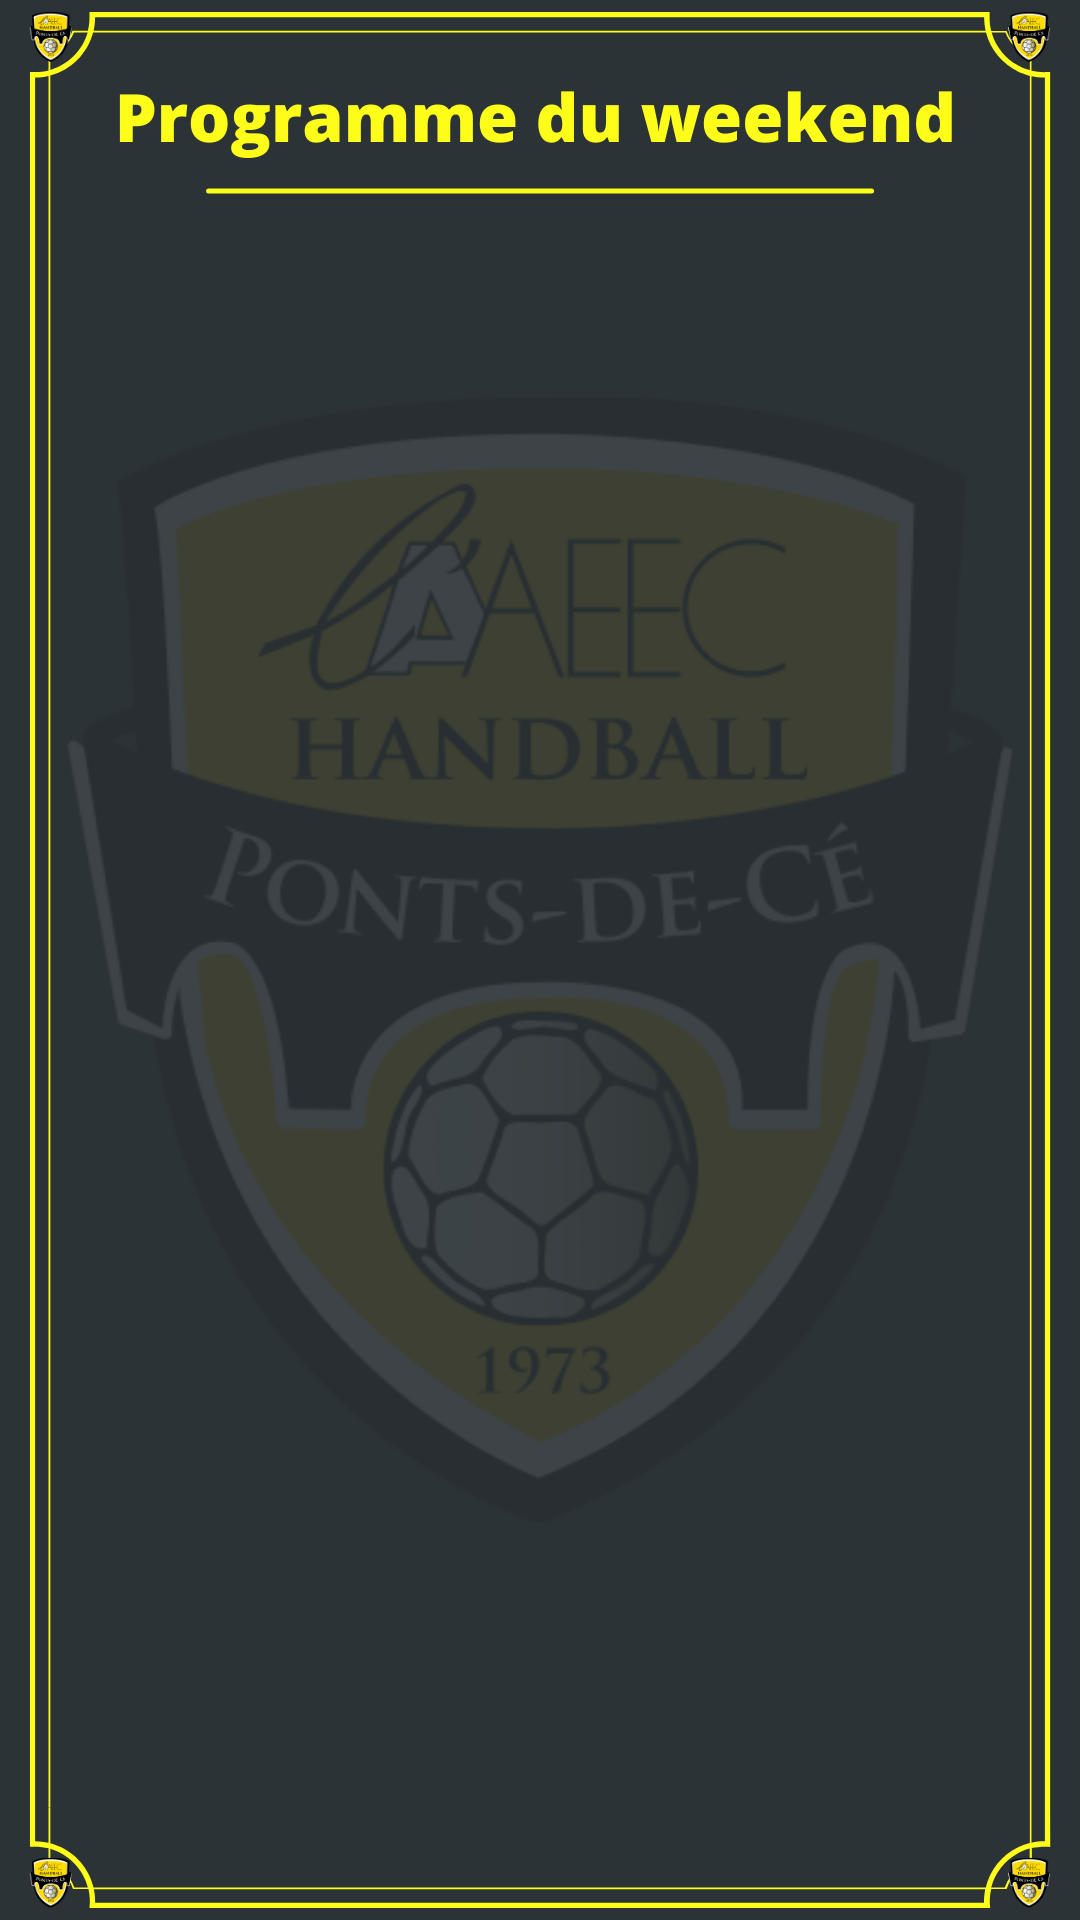
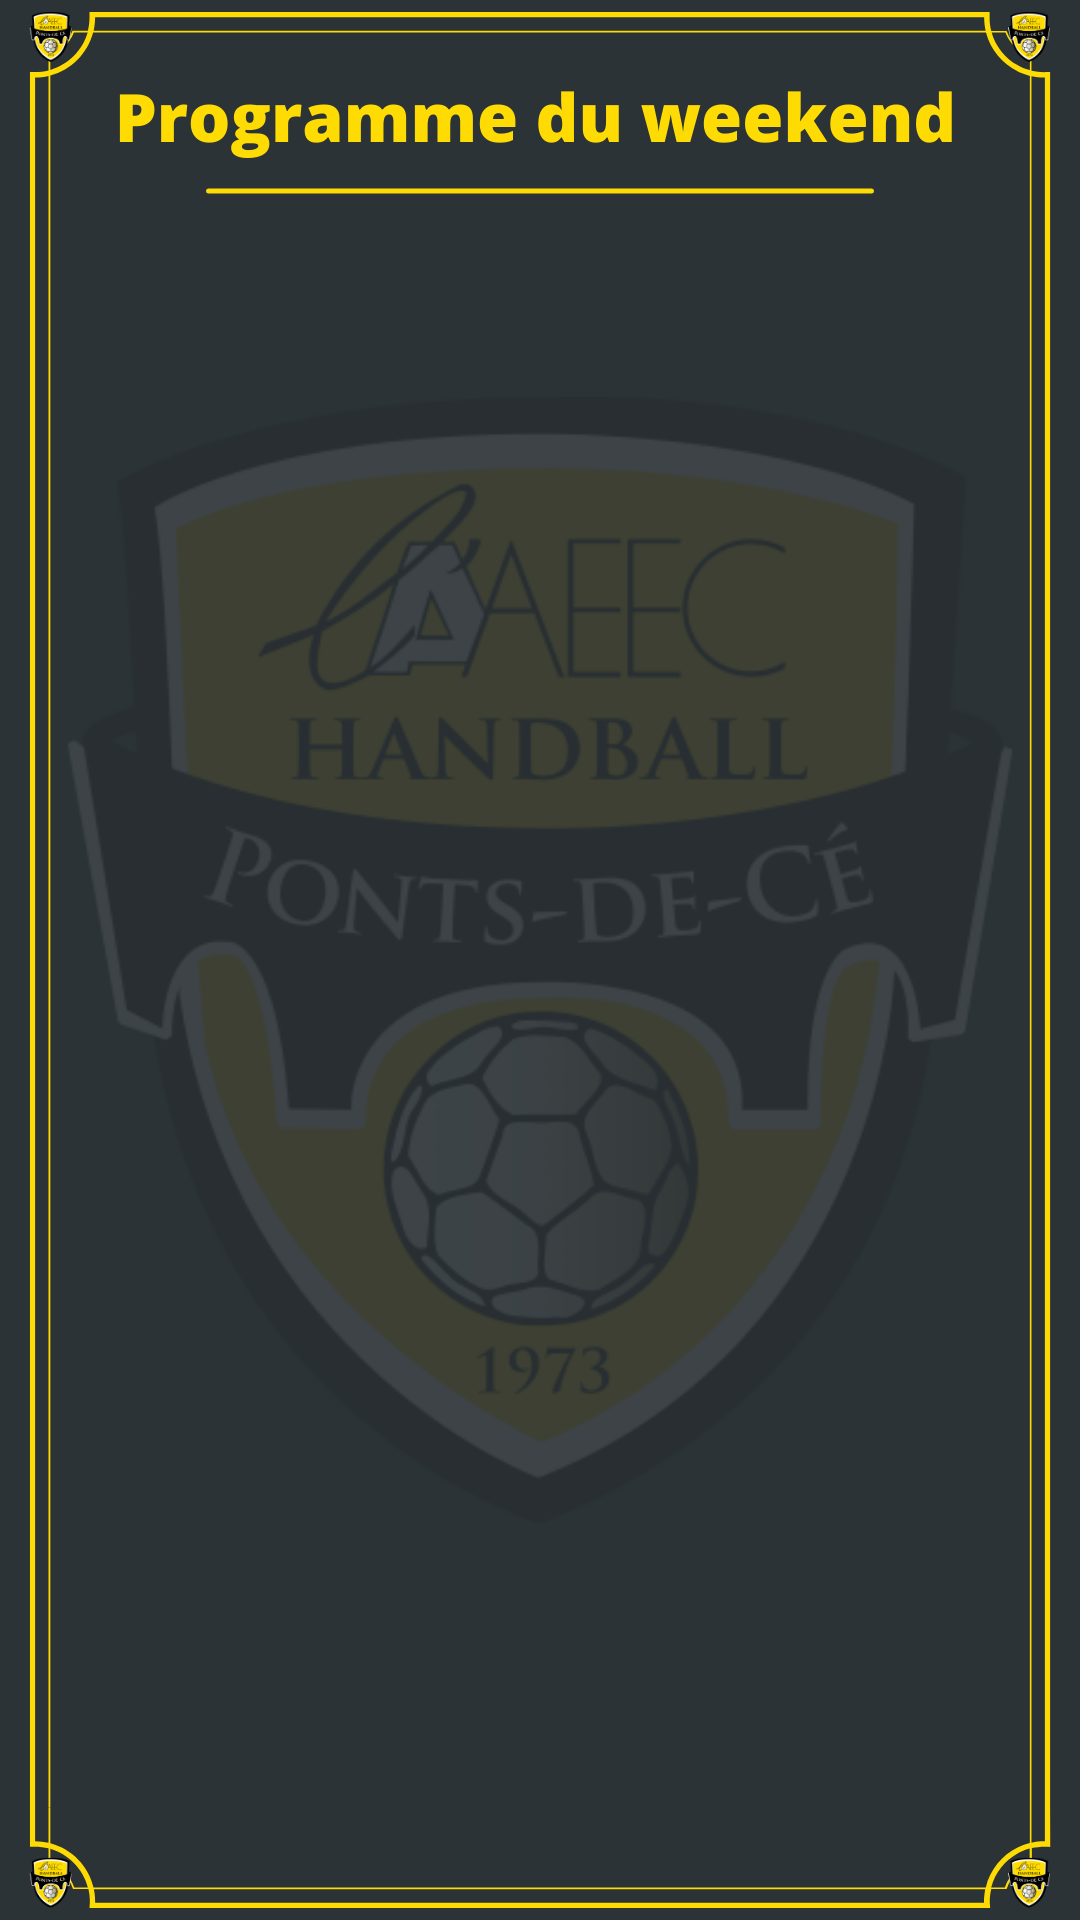
new template

diff --git a/utils.py b/utils.py
@@ -5,38 +5,36 @@ import locale
 
 locale.setlocale(locale.LC_ALL, 'fr_FR.UTF-8')
 
-# jours = ["VENDREDI","SAMEDI", "DIMANCHE"]
-# jours = ["SAMEDI", "DIMANCHE", "LUNDI"]
+#jours = ["MERCREDI", "JEUDI", "VENDREDI","SAMEDI", "DIMANCHE"]
+#jours = ["SAMEDI", "DIMANCHE", "LUNDI"]
 jours = ["SAMEDI", "DIMANCHE"]
 salles_club = ["LIGERIA", "SALLE B", "ATHLÉTIS", "LIGERIA (CLUB HOUSE)", "COMPLEXE SPORTIF F. BERNARD", "VAL DE LOUET"]
-salles_equipes_conventions = {'JEAN MONNET': ['S1F', 'S2F', 'S3F', 'S4F', 'U17F'],
-                              'JEAN LEHAY': ['S1F', 'S2F', 'S3F', 'S4F', 'U17F'],
-                              'BELLE BEILLE': ['S1F', 'S2F', 'S3F', 'S4F', 'U17F'],
-                              'MONTAIGNE': ['U15M', 'U16M1']}
+salles_equipes_conventions = {'MONNET': ['S1F', 'S2F', 'U20F'],
+                              'MONTAIGNE': ['U15M', 'U17M']}
 
-date_jour1 = datetime.date(2023, 6, 24)
+date_jour1 = datetime.date(2024, 5, 25)
 
-xl_matchs = pd.read_excel('doc/template.xlsx').dropna().sort_values(by=['JOUR', 'HEURE'])
+xl_matchs = pd.read_excel('doc/template_copie.xlsx').dropna().sort_values(by=['JOUR', 'HEURE'])
 
 y_match = 90
 y = 200
 # FONTS
 font_jour = ImageFont.truetype("Chalkboard.ttc", 60)
-# font_jour = ImageFont.truetype("Chalkboard.ttc", 50)
+#font_jour = ImageFont.truetype("Chalkboard.ttc", 50)
 font_salle = ImageFont.truetype("Chalkboard.ttc", 45)
-# font_salle = ImageFont.truetype("Chalkboard.ttc", 40)
+#font_salle = ImageFont.truetype("Chalkboard.ttc", 40)
 font_match = ImageFont.truetype("Chalkboard.ttc", 40)
-# font_match = ImageFont.truetype("Chalkboard.ttc", 35)
+#font_match = ImageFont.truetype("Chalkboard.ttc", 35)
 # ESPACEMENTS
 delta_h_jour = 30
-# delta_h_jour = 22
+#delta_h_jour = 18
 delta_h_lieu = 25
-# delta_h_lieu = 17
+#delta_h_lieu = 17
 # COULEURS
-color_jour = (254, 253, 26, 255)
+color_jour = (254, 220, 3, 255)
 color_salle_conv = (0, 176, 240, 255)
 color_salle_ext = (255, 11, 172, 255)
-color_salle_pdc = (254, 253, 26, 255)
+color_salle_pdc = (254, 220, 3, 255)
 color_match = (255, 255, 255, 255)
 
 color_win = (36, 210, 109, 255)

diff --git a/generateur_visuel_result_wk.py b/generateur_visuel_result_wk.py
@@ -1,11 +1,13 @@
 from utils import *
 
+xl_matchs = xl_matchs.sort_values(by=['EQUIPE'])
+
 template_img = Image.open('doc/template_resultats.png')
 visuel = ImageDraw.Draw(template_img)
 
 dateDeb = date_jour1
 dateFin = date_jour1 + datetime.timedelta(days=len(jours) - 1)
-msg = dateDeb.strftime("Weekend du %d au") + dateFin.strftime(" %d %B")
+msg = dateDeb.strftime("du %d au") + dateFin.strftime(" %d %B")
 w, h = visuel.textsize(msg, font_jour)
 visuel.text(((1080 - w) / 2, y), msg, font=font_jour, fill=color_jour, align='center', stroke_width=2,
             stroke_fill=color_jour)
